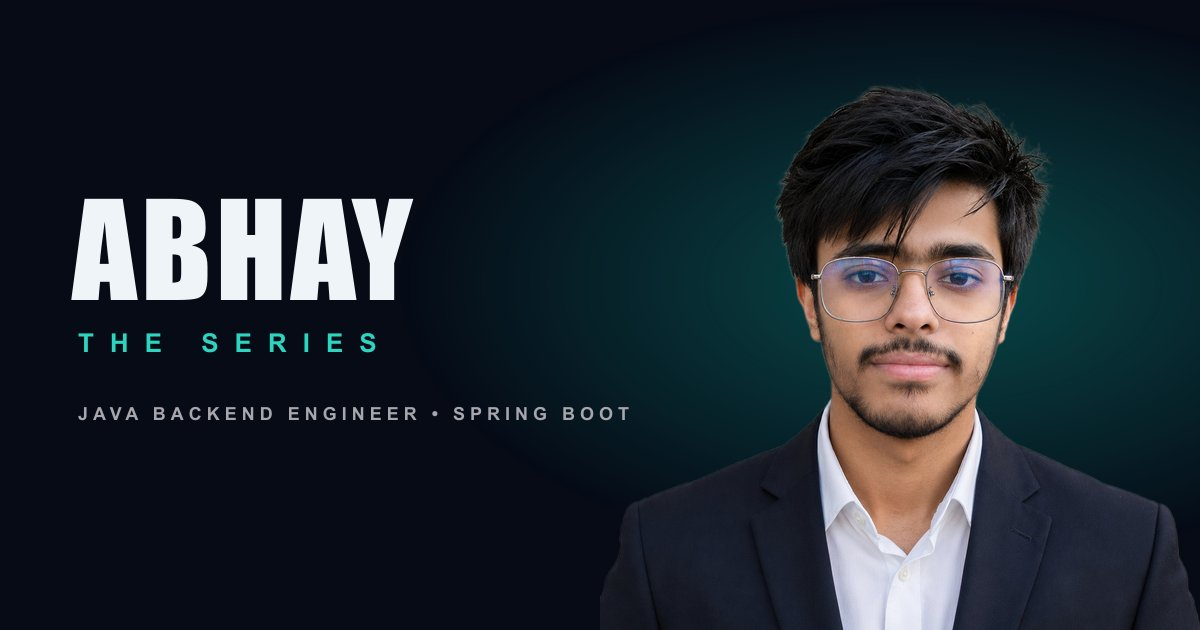
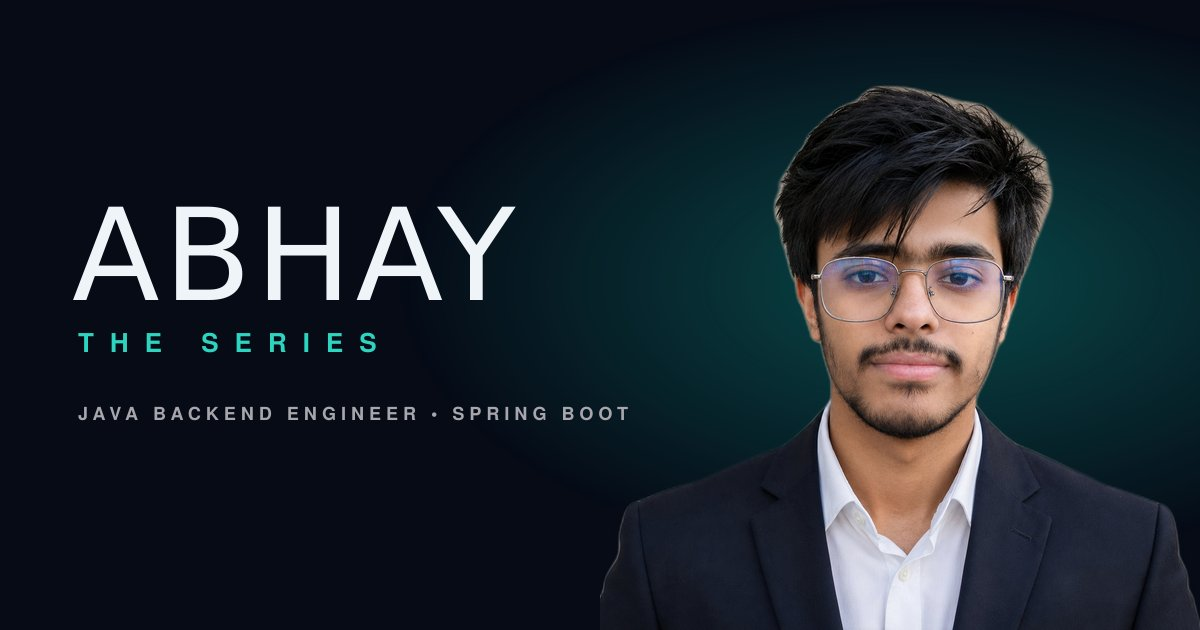
Improve mobile layout and fix resume scrolling

diff --git a/src/components/ResumeViewer.tsx b/src/components/ResumeViewer.tsx
@@ -1,4 +1,3 @@
-import { useState } from 'react';
 import { motion } from 'framer-motion';
 import { achievements, certifications, education, experience, profile, projects, skillCategories } from '../data/portfolio';
 import { EASE, Magnetic, SectionHeading } from './fx';
@@ -64,23 +63,8 @@ export default function ResumeSection({ onView }: { onView: () => void }) {
   );
 }
 
-/** On phones the sheet starts as a teaser so the page keeps its pace; desktop shows it in full. */
 function CollapsibleSheet() {
-  const [open, setOpen] = useState(false);
-  return (
-    <div className="relative">
-      <div className={`overflow-hidden transition-[max-height] duration-700 ease-[var(--ease-cine)] md:max-h-none ${open ? 'max-h-[4000px]' : 'max-h-[560px]'}`}>
-        <ResumeSheet />
-      </div>
-      {!open && (
-        <div className="absolute inset-x-0 bottom-0 flex h-48 items-end justify-center rounded-b-2xl bg-gradient-to-t from-ink via-ink/85 to-transparent pb-4 md:hidden">
-          <button type="button" onClick={() => setOpen(true)} className="glass min-h-11 rounded-full px-5 text-sm font-semibold text-bone">
-            Read the full story ↓
-          </button>
-        </div>
-      )}
-    </div>
-  );
+  return <ResumeSheet />;
 }
 
 function H({ children }: { children: string }) {
@@ -89,14 +73,14 @@ function H({ children }: { children: string }) {
 
 export function ResumeSheet() {
   return (
-    <article className="relative overflow-hidden rounded-2xl bg-[linear-gradient(180deg,#121218,#0c0c11)] p-6 ring-1 ring-white/10 sm:p-10">
+    <article className="relative overflow-hidden rounded-2xl bg-[linear-gradient(180deg,#121218,#0c0c11)] p-4 ring-1 ring-white/10 sm:p-8 md:p-10">
       <div aria-hidden className="absolute inset-x-0 top-0 h-px bg-gradient-to-r from-transparent via-crimson-2/70 to-transparent" />
-      <header className="mb-8 flex flex-wrap items-end justify-between gap-4 border-b border-white/10 pb-6">
+      <header className="mb-5 flex flex-wrap sm:mb-8 items-end justify-between gap-4 border-b border-white/10 pb-4 sm:pb-6">
         <div>
           <p className="text-[10px] font-bold tracking-[0.34em] text-smoke">STARRING</p>
-          <h3 className="mt-1 font-display text-[clamp(1.9rem,4.4vw,3.2rem)] leading-[0.9] tracking-wide text-bone">{profile.fullName}</h3>
+          <h3 className="mt-1 font-display text-[clamp(1.5rem,4.4vw,3.2rem)] leading-[0.9] tracking-wide text-bone">{profile.fullName}</h3>
         </div>
-        <div className="text-xs leading-relaxed text-mist sm:text-right">
+        <div className="text-[10px] sm:text-xs leading-relaxed text-mist sm:text-right">
           <a href={`mailto:${profile.email}`} className="block hover:text-bone">
             {profile.email}
           </a>
@@ -110,18 +94,18 @@ export function ResumeSheet() {
         </div>
       </header>
 
-      <div className="grid gap-x-10 md:grid-cols-[1.4fr_1fr]">
+      <div className="grid grid-cols-[1.4fr_1fr] gap-x-4 sm:gap-x-10">
         <div>
           <H>Education</H>
           {education.map((e) => (
             <div key={e.school} className="mb-4">
               <div className="flex flex-wrap justify-between gap-x-3">
-                <p className="text-sm font-semibold text-bone">
+                <p className="text-xs font-semibold sm:text-sm text-bone">
                   {e.school}, {e.place}
                 </p>
-                <p className="text-xs text-smoke">{e.period}</p>
+                <p className="text-[10px] sm:text-xs text-smoke">{e.period}</p>
               </div>
-              <p className="text-xs text-mist">
+              <p className="text-[10px] sm:text-xs text-mist">
                 {e.degree} · <span className="text-bone/80">{e.score}</span>
               </p>
             </div>
@@ -129,16 +113,16 @@ export function ResumeSheet() {
 
           <H>Work Experience</H>
           {experience.map((x) => (
-            <div key={x.company}>
+            <div key={x.company} className="mb-4">
               <div className="flex flex-wrap justify-between gap-x-3">
-                <p className="text-sm font-semibold text-bone">
+                <p className="text-xs font-semibold sm:text-sm text-bone">
                   {x.company} — {x.role}
                 </p>
-                <p className="text-xs text-smoke">{x.period}</p>
+                <p className="text-[10px] sm:text-xs text-smoke">{x.period}</p>
               </div>
               <ul className="mt-2 space-y-1.5">
                 {x.points.map((p) => (
-                  <li key={p} className="flex gap-2 text-xs leading-relaxed text-mist">
+                  <li key={p} className="flex gap-2 text-[10px] sm:text-xs leading-relaxed text-mist">
                     <span className="mt-1.5 h-1 w-1 shrink-0 rounded-full bg-crimson-2" />
                     {p}
                   </li>
@@ -151,10 +135,10 @@ export function ResumeSheet() {
           {projects.map((p) => (
             <div key={p.id} className="mb-3">
               <div className="flex flex-wrap justify-between gap-x-3">
-                <p className="text-sm font-semibold text-bone">{p.title}</p>
-                <p className="text-xs text-smoke">{p.year}</p>
+                <p className="text-xs font-semibold sm:text-sm text-bone">{p.title}</p>
+                <p className="text-[10px] sm:text-xs text-smoke">{p.year}</p>
               </div>
-              <p className="text-xs text-mist">{p.stack.join(', ')}</p>
+              <p className="text-[10px] sm:text-xs text-mist">{p.stack.join(', ')}</p>
             </div>
           ))}
         </div>
@@ -163,7 +147,7 @@ export function ResumeSheet() {
           <H>Skills</H>
           <div className="space-y-2">
             {skillCategories.map((c) => (
-              <p key={c.id} className="text-xs leading-relaxed text-mist">
+              <p key={c.id} className="text-[10px] sm:text-xs leading-relaxed text-mist">
                 <span className="font-semibold text-bone">{c.title}: </span>
                 {c.skills.map((s) => s.name).join(', ')}
               </p>
@@ -173,7 +157,7 @@ export function ResumeSheet() {
           <H>Achievements</H>
           <ul className="space-y-2">
             {achievements.map((a) => (
-              <li key={a.id} className="text-xs leading-relaxed text-mist">
+              <li key={a.id} className="text-[10px] sm:text-xs leading-relaxed text-mist">
                 <span className="font-semibold text-bone">
                   {a.title} — {a.org}.
                 </span>{' '}
@@ -183,7 +167,7 @@ export function ResumeSheet() {
           </ul>
 
           <H>Certifications</H>
-          <p className="text-xs leading-relaxed text-mist">
+          <p className="text-[10px] sm:text-xs leading-relaxed text-mist">
             {Array.from(new Set(certifications.map((c) => c.issuer)))
               .map((iss) => `${iss}: ${certifications.filter((c) => c.issuer === iss).map((c) => c.name).join(', ')}`)
               .join(' · ')}

diff --git a/src/components/Hero.tsx b/src/components/Hero.tsx
@@ -37,14 +37,14 @@ export default function Hero({ onPlay, onResume }: { onPlay: () => void; onResum
   const glowX = useTransform(px, [-1, 1], ['-6%', '6%']);
 
   const meta = [
-    education[0].period.split(' – ')[0].split(' ')[1] + ' – Present',
-    'B.Tech AI & ML',
+    '2+ years experience',
+    'Java · Spring Boot',
     `${projects.length} Projects`,
     `${certifications.length} Certifications`,
   ];
 
   const floating = [
-    { text: education[0].score, sub: 'B.Tech AI & ML', pos: 'left-[2%] top-[30%]', depth: 1 },
+    { text: education[0].score, sub: 'B.Tech, Computer Science', pos: 'left-[2%] top-[30%]', depth: 1 },
     { text: `${achievements[0].title}`, sub: achievements[0].org, pos: 'right-[0%] top-[18%]', depth: -1 },
     { text: 'Java · React · Node.js', sub: 'Primary stack', pos: 'right-[4%] bottom-[24%]', depth: 0.6 },
   ];
@@ -120,7 +120,7 @@ export default function Hero({ onPlay, onResume }: { onPlay: () => void; onResum
         <motion.div variants={item} className="mb-3 text-lg">
           <SeriesMark />
         </motion.div>
-        <motion.h1 variants={item} className="font-display leading-[0.82] tracking-[0.02em] text-bone" style={{ fontSize: 'clamp(4rem, 12vw, 11rem)' }}>
+        <motion.h1 variants={item} className="font-display leading-[0.82] tracking-[0.02em] text-bone" style={{ fontSize: 'clamp(3rem, 12vw, 11rem)' }}>
           <span className="shimmer-text">{profile.firstName}</span>
         </motion.h1>
         <motion.p variants={item} className="mt-1 font-sans text-sm font-bold tracking-[0.62em] text-crimson-2 sm:text-base">
@@ -128,7 +128,7 @@ export default function Hero({ onPlay, onResume }: { onPlay: () => void; onResum
         </motion.p>
 
         <motion.div variants={item} className="mt-5 flex flex-wrap items-center gap-x-3 gap-y-2 text-[13px] font-medium text-mist">
-          <span className="rounded border border-white/25 px-1.5 py-px text-[10px] font-bold tracking-wider text-bone">AI·ML</span>
+          <span className="rounded border border-white/25 px-1.5 py-px text-[10px] font-bold tracking-wider text-bone">BACKEND</span>
           {meta.map((m, i) => (
             <span key={m} className="flex items-center gap-3">
               {i > 0 && <span className="h-1 w-1 rounded-full bg-smoke" />}

diff --git a/src/components/ResumeModal.tsx b/src/components/ResumeModal.tsx
@@ -19,7 +19,7 @@ export default function ResumeModal({ onClose }: { onClose: () => void }) {
 
   return (
     <motion.div
-      className="fixed inset-0 z-[140] flex flex-col bg-black/90 backdrop-blur-md"
+      className="fixed inset-x-0 top-0 z-[140] flex h-[100dvh] flex-col overflow-hidden bg-black/90 backdrop-blur-md"
       initial={{ opacity: 0 }}
       animate={{ opacity: 1 }}
       exit={{ opacity: 0 }}
@@ -28,7 +28,7 @@ export default function ResumeModal({ onClose }: { onClose: () => void }) {
       aria-label="Resume"
     >
       <div className="gutter flex h-16 shrink-0 items-center justify-between gap-3 pt-[env(safe-area-inset-top)]">
-        <p className="truncate font-display text-2xl tracking-wide text-bone">The Full Story</p>
+        <p className="truncate font-display text-2xl tracking-wide text-bone">Resume</p>
         <div className="flex items-center gap-2">
           <a href={profile.resumePdf} download="Abhay_Deep_Resume.pdf" className="rounded-md bg-bone px-4 py-2 text-xs font-bold text-ink">
             ⤓ Download
@@ -39,13 +39,13 @@ export default function ResumeModal({ onClose }: { onClose: () => void }) {
         </div>
       </div>
       <motion.div
-        className="gutter flex-1 pb-6"
+        className="gutter min-h-0 flex-1 pb-4"
         initial={{ opacity: 0, y: 40, scale: 0.98 }}
         animate={{ opacity: 1, y: 0, scale: 1 }}
         transition={{ duration: 0.6, ease: EASE }}
       >
         {small ? (
-          <div data-lenis-prevent className="h-full overflow-y-auto">
+          <div data-lenis-prevent className="h-full min-h-0 overflow-y-auto overscroll-contain pb-[env(safe-area-inset-bottom)] [-webkit-overflow-scrolling:touch]" style={{ touchAction: 'pan-y' }}>
             <ResumeSheet />
             <a href={profile.resumePdf} target="_blank" rel="noreferrer" className="glass mt-4 flex min-h-12 items-center justify-center rounded-md text-sm font-semibold text-bone">
               Open original PDF ↗

diff --git a/src/components/Achievements.tsx b/src/components/Achievements.tsx
@@ -33,7 +33,7 @@ export default function Achievements() {
             transition={{ duration: 0.9, delay: i * 0.08, ease: EASE }}
           >
             <Tilt max={8} className="group h-full rounded-2xl">
-              <article className="relative flex h-full min-h-[340px] flex-col items-center overflow-hidden rounded-2xl bg-[radial-gradient(120%_80%_at_50%_0%,#2a1f10,#0d0b08_60%,#060b16)] px-5 pb-6 pt-8 text-center ring-1 ring-[#d9b46a]/20 transition duration-500 group-hover:ring-[#d9b46a]/60">
+              <article className="relative flex h-full min-h-[280px] sm:min-h-[340px] flex-col items-center overflow-hidden rounded-2xl bg-[radial-gradient(120%_80%_at_50%_0%,#2a1f10,#0d0b08_60%,#060b16)] px-5 pb-6 pt-8 text-center ring-1 ring-[#d9b46a]/20 transition duration-500 group-hover:ring-[#d9b46a]/60">
                 <div aria-hidden className="absolute inset-x-0 top-0 h-px bg-gradient-to-r from-transparent via-[#d9b46a]/70 to-transparent" />
                 <div aria-hidden className="absolute -top-24 left-1/2 h-48 w-48 -translate-x-1/2 rounded-full bg-[#d9b46a]/10 blur-3xl transition duration-700 group-hover:bg-[#d9b46a]/25" />
                 <div className="relative flex items-center gap-1">
@@ -80,7 +80,7 @@ export default function Achievements() {
                 target="_blank"
                 rel="noreferrer"
                 data-cursor="link"
-                className="group relative flex w-[230px] shrink-0 snap-start flex-col justify-between rounded-xl bg-ink-2 p-4 ring-1 ring-white/10 transition hover:-translate-y-1 hover:ring-white/30"
+                className="group relative flex w-[200px] shrink-0 sm:w-[230px] snap-start flex-col justify-between rounded-xl bg-ink-2 p-4 ring-1 ring-white/10 transition hover:-translate-y-1 hover:ring-white/30"
                 initial={{ opacity: 0, y: 20 }}
                 whileInView={{ opacity: 1, y: 0 }}
                 viewport={{ once: true }}

diff --git a/src/components/Originals.tsx b/src/components/Originals.tsx
@@ -21,9 +21,9 @@ function Intro() {
       <p className="mb-3 flex items-center gap-3 text-[11px] font-semibold uppercase tracking-[0.32em] text-crimson-2">
         <span className="h-px w-8 bg-crimson-2" /> {projects.length} Projects · {projects[0].year}
       </p>
-      <RevealText as="h2" text="ORIGINALS" className="font-display text-[clamp(3.5rem,9vw,8rem)] leading-[0.85] text-bone" />
+      <RevealText as="h2" text="PROJECTS" className="font-display text-[clamp(2.4rem,9vw,8rem)] leading-[0.85] text-bone" />
       <p className="mt-4 max-w-sm text-[15px] leading-relaxed text-mist">
-        Three productions from the resume — an AI platform, a payment gateway and a multi-tenant SaaS. Open any title for the full story.
+        Two projects on distributed systems and AI-assisted development. Open any project for details.
       </p>
       <p className="mt-6 hidden text-xs tracking-[0.24em] text-smoke lg:block">SCROLL TO BROWSE →</p>
     </div>
@@ -86,7 +86,7 @@ function PinnedOriginals({ onOpen }: { onOpen: (p: Project) => void }) {
           <Outro />
         </motion.div>
         <div className="gutter absolute inset-x-0 bottom-8 flex items-center gap-4">
-          <span className="text-[10px] font-bold tracking-[0.3em] text-smoke">ORIGINALS</span>
+          <span className="text-[10px] font-bold tracking-[0.3em] text-smoke">PROJECTS</span>
           <div className="h-[2px] flex-1 overflow-hidden rounded bg-white/10">
             <motion.div className="h-full origin-left bg-crimson" style={{ scaleX: bar }} />
           </div>

diff --git a/src/components/About.tsx b/src/components/About.tsx
@@ -1,12 +1,12 @@
 import { motion } from 'framer-motion';
-import { education, experience, profile } from '../data/portfolio';
+import { education, experience, profile, seasons } from '../data/portfolio';
 import { EASE, SectionHeading, Tilt } from './fx';
 
 export default function About() {
   const facts = [
-    { k: 'Now', v: 'B.Tech, AI & ML', s: `${education[0].school} · ${education[0].score}` },
-    { k: 'Training', v: `${experience[0].role}, ${experience[0].company}`, s: experience[0].period },
-    { k: 'Primary language', v: 'Java', s: 'with Python, C, C++' },
+    { k: 'Education', v: 'B.Tech, Computer Science', s: `${education[0].school} · ${education[0].score}` },
+    { k: 'Working at', v: `${experience[0].role}, ${experience[0].company}`, s: experience[0].period },
+    { k: 'Primary language', v: 'Java', s: 'with C++, JavaScript, SQL, Python' },
     { k: 'Based in', v: profile.location, s: 'India' },
   ];
 
@@ -39,7 +39,7 @@ export default function About() {
                 <p className="text-[10px] font-bold tracking-[0.3em] text-crimson-2">STARRING</p>
                 <p className="font-display text-3xl leading-none text-bone">{profile.displayName}</p>
               </div>
-              <span className="rounded border border-white/30 px-1.5 text-[10px] font-bold text-bone">S01–S05</span>
+              <span className="rounded border border-white/30 px-1.5 text-[10px] font-bold text-bone">{`S01–S0${seasons.length}`}</span>
             </div>
           </div>
         </Tilt>

diff --git a/src/components/EpisodeCard.tsx b/src/components/EpisodeCard.tsx
@@ -7,7 +7,7 @@ export default function EpisodeCard({ episode, index }: { episode: Episode; inde
   const [season, ep] = episode.code.split(' ');
   return (
     <motion.article
-      className="w-[80vw] shrink-0 snap-start sm:w-[52vw] md:w-[38vw] lg:w-[30vw] xl:w-[26vw]"
+      className="w-[72vw] shrink-0 snap-start sm:w-[52vw] md:w-[38vw] lg:w-[30vw] xl:w-[26vw]"
       initial={{ opacity: 0, y: 30, rotateY: -8 }}
       animate={{ opacity: 1, y: 0, rotateY: 0 }}
       transition={{ duration: 0.7, delay: index * 0.1, ease: EASE }}
@@ -24,7 +24,7 @@ export default function EpisodeCard({ episode, index }: { episode: Episode; inde
               <span className="rounded bg-black/50 px-2 py-0.5 text-[10px] font-bold tracking-[0.2em] text-bone backdrop-blur">{season}</span>
               <span className="text-[10px] font-bold tracking-[0.2em] text-bone/80">EPISODE {ep.replace('E', '')}</span>
             </div>
-            <h4 className="absolute bottom-4 left-4 right-4 font-display text-3xl leading-none tracking-wide text-bone [transform:translateZ(30px)] sm:text-4xl">{episode.title}</h4>
+            <h4 className="absolute bottom-4 left-4 right-4 font-display text-2xl leading-none tracking-wide text-bone [transform:translateZ(30px)] sm:text-4xl">{episode.title}</h4>
           </div>
           <div className="flex flex-1 flex-col p-4">
             <div className="mb-2 flex items-center justify-between text-[11px] text-smoke">

diff --git a/src/components/ProjectCard.tsx b/src/components/ProjectCard.tsx
@@ -6,7 +6,7 @@ import { ProjectArt } from './Poster';
 export default function ProjectCard({ project, index, onOpen }: { project: Project; index: number; onOpen: () => void }) {
   return (
     <motion.article
-      className="w-[84vw] shrink-0 snap-start sm:w-[62vw] lg:w-[46vw] xl:w-[42vw]"
+      className="w-[74vw] shrink-0 snap-start sm:w-[62vw] lg:w-[46vw] xl:w-[42vw]"
       initial={{ opacity: 0, y: 40, filter: 'blur(10px)' }}
       whileInView={{ opacity: 1, y: 0, filter: 'blur(0px)' }}
       viewport={{ once: true, margin: '0px -10% 0px 0px' }}
@@ -41,7 +41,7 @@ export default function ProjectCard({ project, index, onOpen }: { project: Proje
 
           <div className="absolute inset-x-0 bottom-0 p-5 sm:p-7 [transform:translateZ(40px)]">
             <p className="mb-2 text-[11px] font-semibold uppercase tracking-[0.24em] text-mist">{project.genre}</p>
-            <motion.h3 layoutId={`title-${project.id}`} className="font-display text-[clamp(2.4rem,5vw,4.6rem)] leading-[0.88] tracking-wide text-bone">
+            <motion.h3 layoutId={`title-${project.id}`} className="font-display text-[clamp(1.7rem,5vw,4.6rem)] leading-[0.88] tracking-wide text-bone">
               {project.title}
             </motion.h3>
             <p className="mt-3 max-w-md text-sm leading-relaxed text-bone/75 sm:text-[15px]">{project.logline}</p>

diff --git a/src/components/TopPicks.tsx b/src/components/TopPicks.tsx
@@ -15,7 +15,7 @@ export default function TopPicks() {
           {topPicks.map((pick, i) => (
             <motion.div
               key={pick.title}
-              className="group relative flex h-[260px] shrink-0 snap-start items-end sm:h-[300px]"
+              className="group relative flex h-[210px] shrink-0 snap-start items-end sm:h-[300px]"
               initial={{ opacity: 0, x: 50 }}
               whileInView={{ opacity: 1, x: 0 }}
               viewport={{ once: true, margin: '0px -5% 0px 0px' }}
@@ -28,7 +28,7 @@ export default function TopPicks() {
               >
                 {i + 1}
               </span>
-              <div className="relative z-10 h-[85%] w-[150px] overflow-hidden rounded-lg shadow-[-12px_0_30px_rgba(0,0,0,0.7)] ring-1 ring-white/10 transition duration-500 group-hover:-translate-y-2 group-hover:ring-white/30 sm:w-[180px]">
+              <div className="relative z-10 h-[85%] w-[120px] overflow-hidden rounded-lg shadow-[-12px_0_30px_rgba(0,0,0,0.7)] ring-1 ring-white/10 transition duration-500 group-hover:-translate-y-2 group-hover:ring-white/30 sm:w-[180px]">
                 <div className="absolute inset-0 transition-transform duration-700 group-hover:scale-110">
                   <PosterBackdrop palette={pick.palette} />
                 </div>

diff --git a/src/components/ContinueWatching.tsx b/src/components/ContinueWatching.tsx
@@ -8,7 +8,7 @@ import { EASE, RevealText } from './fx';
 import { PosterBackdrop } from './Poster';
 import { RailButtons } from './Rail';
 
-const GLYPHS: Record<SectionId, string> = { about: 'S', journey: 'S01', originals: '3', picks: '10', skills: '{ }', moments: '★', story: 'CV' };
+const GLYPHS: Record<SectionId, string> = { about: 'S', journey: 'S01', originals: '2', picks: '10', skills: '{ }', moments: '★', story: 'CV' };
 
 export default function ContinueWatching({ order }: { order: SectionId[] }) {
   const progress = useWatchProgress();
@@ -39,7 +39,7 @@ export default function ContinueWatching({ order }: { order: SectionId[] }) {
                 onHoverEnd={() => setHovered(null)}
                 onFocus={() => setHovered(i)}
                 onBlur={() => setHovered(null)}
-                className="group relative aspect-video w-[72vw] shrink-0 snap-start overflow-visible text-left sm:w-[42vw] md:w-[30vw] lg:w-[22vw]"
+                className="group relative aspect-video w-[60vw] shrink-0 snap-start overflow-visible text-left sm:w-[42vw] md:w-[30vw] lg:w-[22vw]"
                 initial={{ opacity: 0, y: 40, filter: 'blur(8px)' }}
                 whileInView={{ opacity: 1, y: 0, filter: 'blur(0px)' }}
                 viewport={{ once: true, margin: '-5% 0px' }}

diff --git a/src/components/fx.tsx b/src/components/fx.tsx
@@ -119,7 +119,7 @@ export function SectionHeading({ kicker, title, aside }: { kicker: string; title
           <span className="h-px w-8 bg-crimson-2" />
           {kicker}
         </motion.div>
-        <RevealText as="h2" text={title} className="font-display text-[clamp(2.4rem,6vw,5rem)] leading-[0.9] tracking-wide text-bone" />
+        <RevealText as="h2" text={title} className="font-display text-[clamp(1.9rem,6vw,5rem)] leading-[0.9] tracking-wide text-bone" />
       </div>
       {aside}
     </div>

diff --git a/src/components/Skills.tsx b/src/components/Skills.tsx
@@ -37,7 +37,7 @@ export default function Skills() {
         </div>
 
         {/* skill cards */}
-        <div className="min-h-[340px]">
+        <div className="min-h-[260px] sm:min-h-[340px]">
           <AnimatePresence mode="wait">
             <motion.div key={category.id} initial="hidden" animate="show" exit="exit" transition={{ staggerChildren: 0.05 }}>
               <motion.p
